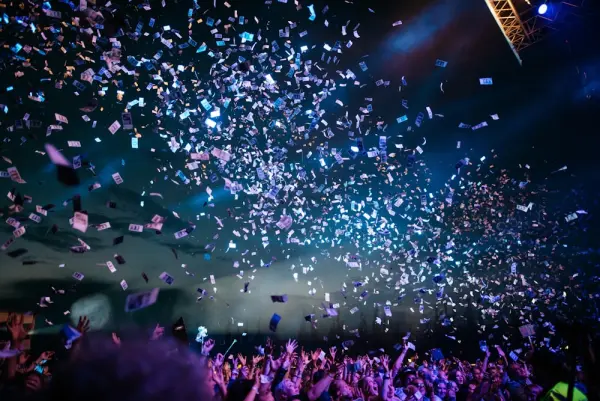
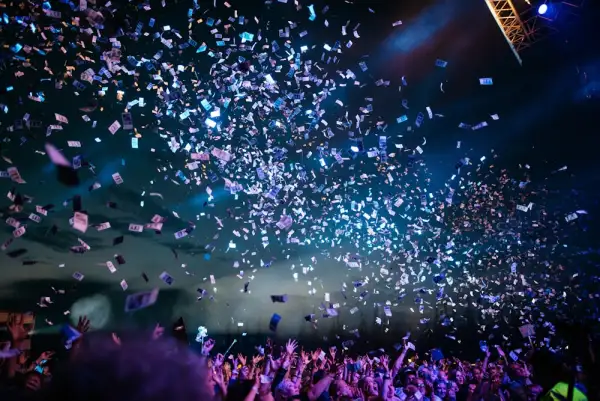
feat(a11y): resolve color contrast, heading sequence, and staging sitemap config

Changed region(s): [[0.63, 0.5387, 0.66, 0.5686]]

diff --git a/src/routes/(public)/equipment/+page.svelte b/src/routes/(public)/equipment/+page.svelte
@@ -1,6 +1,7 @@
 <script lang="ts">
 	import SeoHead from '$lib/components/seo/SeoHead.svelte';
 	import { i18n } from '$lib/i18n.svelte';
+	import Icon from '$lib/components/navigation/Icon.svelte';
 
 	import { buildItemListSchema } from '$lib/utils/schema';
 
@@ -84,19 +85,19 @@
 				
 				<div class="grid grid-cols-1 sm:grid-cols-2 gap-4 mb-8">
 					<div class="flex items-start gap-3">
-						<span class="material-symbols-outlined text-electric-blue">tv</span>
+						<Icon name="inventory_2" className="text-electric-blue" size="20" />
 						<span class="font-label-sm text-label-sm text-on-surface">{i18n.lang === 'en' ? '60" LED Screen' : 'Pantalla LED de 60"'}</span>
 					</div>
 					<div class="flex items-start gap-3">
-						<span class="material-symbols-outlined text-electric-blue">mic</span>
+						<Icon name="call" className="text-electric-blue" size="20" />
 						<span class="font-label-sm text-label-sm text-on-surface">{i18n.lang === 'en' ? 'Wireless Audio' : 'Audio Inalámbrico'}</span>
 					</div>
 					<div class="flex items-start gap-3">
-						<span class="material-symbols-outlined text-electric-blue">engineering</span>
+						<Icon name="build" className="text-electric-blue" size="20" />
 						<span class="font-label-sm text-label-sm text-on-surface">{i18n.lang === 'en' ? 'Technical Support Included' : 'Soporte Técnico Incluido'}</span>
 					</div>
 					<div class="flex items-start gap-3">
-						<span class="material-symbols-outlined text-electric-blue">speaker</span>
+						<Icon name="speaker" className="text-electric-blue" size="20" />
 						<span class="font-label-sm text-label-sm text-on-surface">{i18n.lang === 'en' ? 'Premium Sound' : 'Sonido Premium'}</span>
 					</div>
 				</div>
@@ -110,7 +111,7 @@
 						class="w-full sm:w-auto px-8 py-3 rounded-full bg-electric-blue text-white font-label-lg uppercase tracking-wider hover:shadow-lg hover:shadow-electric-blue/30 active:scale-95 transition-all duration-300 ml-auto flex items-center justify-center gap-2"
 						href="/packages/mice/"
 					>
-						{i18n.lang === 'en' ? 'Request Info' : 'Solicitar Info'} <span class="material-symbols-outlined text-[18px]">arrow_forward</span>
+						{i18n.lang === 'en' ? 'Request Info' : 'Solicitar Info'} <Icon name="arrow_forward" size="18" />
 					</a>
 				</div>
 			</div>
@@ -138,13 +139,13 @@
 		<!-- Audio -->
 		<div class="group relative rounded-[20px] overflow-hidden border border-border-glass bg-surface-container-low lg:col-span-2 row-span-1 reveal active is-revealed">
 			<div 
-				class="absolute inset-0 bg-[url('https://images.unsplash.com/photo-1598488035139-bdbb2231ce04?q=80&w=2070&auto=format&fit=crop')] bg-cover bg-center opacity-30 group-hover:opacity-50 transition-opacity duration-500"
+				class="absolute inset-0 bg-[url('/images/services/sound.webp')] bg-cover bg-center opacity-30 group-hover:opacity-50 transition-opacity duration-500"
 			></div>
 			<div class="absolute inset-0 bg-gradient-to-t from-background via-background/40 to-transparent"></div>
 			<div class="absolute inset-0 bg-surface-glass backdrop-blur-sm opacity-0 group-hover:opacity-100 transition-opacity duration-300"></div>
 			<div class="absolute bottom-0 left-0 w-full p-8 flex flex-col justify-end h-full z-10 transform translate-y-4 group-hover:translate-y-0 transition-transform duration-500">
 				<div class="w-12 h-12 rounded-full bg-primary-container/50 border border-electric-blue/30 flex items-center justify-center mb-4 backdrop-blur-md">
-					<span class="material-symbols-outlined text-primary">speaker</span>
+					<Icon name="speaker" className="text-primary" />
 				</div>
 				<h3 class="font-headline-md text-[28px] text-on-surface mb-2">{i18n.t.categories.soundTitle}</h3>
 				<p class="font-body-md text-body-md text-on-surface-variant max-w-md opacity-0 group-hover:opacity-100 transition-opacity duration-500 delay-100">
@@ -159,12 +160,12 @@
 		<!-- Lighting -->
 		<div class="group relative rounded-[20px] overflow-hidden border border-border-glass bg-surface-container-low row-span-1 reveal active is-revealed" style="transition-delay: 100ms;">
 			<div 
-				class="absolute inset-0 bg-[url('https://images.unsplash.com/photo-1492684223066-81342ee5ff30?q=80&w=2070&auto=format&fit=crop')] bg-cover bg-center opacity-30 group-hover:opacity-50 transition-opacity duration-500"
+				class="absolute inset-0 bg-[url('/images/services/lighting.webp')] bg-cover bg-center opacity-30 group-hover:opacity-50 transition-opacity duration-500"
 			></div>
 			<div class="absolute inset-0 bg-gradient-to-t from-background via-background/50 to-transparent"></div>
 			<div class="absolute bottom-0 left-0 w-full p-8 z-10">
 				<div class="w-12 h-12 rounded-full bg-primary-container/50 border border-primary/30 flex items-center justify-center mb-4 backdrop-blur-md">
-					<span class="material-symbols-outlined text-primary">lightbulb</span>
+					<Icon name="lightbulb" className="text-primary" />
 				</div>
 				<h3 class="font-headline-md text-[24px] text-on-surface mb-2">{i18n.t.categories.lightTitle}</h3>
 				<p class="font-body-md text-body-md text-on-surface-variant text-sm line-clamp-2">
@@ -184,7 +185,7 @@
 			<div class="absolute inset-0 bg-gradient-to-t from-background via-background/50 to-transparent"></div>
 			<div class="absolute bottom-0 left-0 w-full p-8 z-10">
 				<div class="w-12 h-12 rounded-full bg-primary-container/50 border border-primary/30 flex items-center justify-center mb-4 backdrop-blur-md">
-					<span class="material-symbols-outlined text-primary">videocam</span>
+					<Icon name="videocam" className="text-primary" />
 				</div>
 				<h3 class="font-headline-md text-[24px] text-on-surface mb-2">{i18n.t.categories.visualTitle}</h3>
 				<p class="font-body-md text-body-md text-on-surface-variant text-sm line-clamp-2">
@@ -199,12 +200,12 @@
 		<!-- Special Effects -->
 		<div class="group relative rounded-[20px] overflow-hidden border border-border-glass bg-surface-container-low lg:col-span-2 row-span-1 reveal active is-revealed" style="transition-delay: 300ms;">
 			<div 
-				class="absolute inset-0 bg-[url('https://images.unsplash.com/photo-1514525253161-7a46d19cd819?q=80&w=1974&auto=format&fit=crop')] bg-cover bg-center opacity-25 group-hover:opacity-40 transition-opacity duration-500"
+				class="absolute inset-0 bg-[url('/images/services/fx.webp')] bg-cover bg-center opacity-25 group-hover:opacity-40 transition-opacity duration-500"
 			></div>
 			<div class="absolute inset-0 bg-gradient-to-r from-background via-background/70 to-transparent"></div>
 			<div class="absolute top-0 left-0 w-full h-full p-8 flex flex-col justify-center z-10 max-w-lg">
 				<div class="w-12 h-12 rounded-full bg-primary-container/50 border border-primary/30 flex items-center justify-center mb-4 backdrop-blur-md">
-					<span class="material-symbols-outlined text-primary">air</span>
+					<Icon name="memory" className="text-primary" />
 				</div>
 				<h3 class="font-headline-md text-[28px] text-on-surface mb-4">{i18n.lang === 'en' ? 'Special Effects' : 'Efectos Especiales'}</h3>
 				<p class="font-body-md text-body-md text-on-surface-variant mb-6">
@@ -217,7 +218,7 @@
 					class="flex items-center gap-2 text-electric-blue font-label-lg group-hover:translate-x-2 transition-all duration-300 active:scale-95 w-fit"
 					href="/packages/"
 				>
-					{i18n.t.categories.bookEquipment} <span class="material-symbols-outlined text-[18px]">arrow_forward</span>
+					{i18n.t.categories.bookEquipment} <Icon name="arrow_forward" size="18" />
 				</a>
 			</div>
 		</div>
@@ -230,7 +231,7 @@
 		<div class="absolute right-0 top-0 bottom-0 w-1/2 bg-gradient-to-l from-electric-blue/10 to-transparent opacity-50"></div>
 		<div class="relative z-20 flex w-full justify-between items-center">
 			<div>
-				<h3 class="font-headline-md text-headline-md text-on-surface mb-2">{i18n.t.categories.fxTitle}</h3>
+				<h2 class="font-headline-md text-headline-md text-on-surface mb-2">{i18n.t.categories.fxTitle}</h2>
 				<p class="font-body-md text-on-surface-variant max-w-lg">
 					{i18n.t.categories.fxText}
 				</p>
@@ -239,7 +240,7 @@
 				href="/equipment/"
 				class="hidden md:flex w-16 h-16 rounded-full border border-border-glass items-center justify-center hover:bg-on-surface/5 active:scale-90 transition-all duration-300 text-on-surface"
 			>
-				<span class="material-symbols-outlined text-[32px] group-hover:translate-x-1 transition-transform">arrow_forward</span>
+				<Icon name="arrow_forward" size="32" className="group-hover:translate-x-1 transition-transform" />
 			</a>
 		</div>
 	</div>

diff --git a/src/routes/(public)/+page.svelte b/src/routes/(public)/+page.svelte
@@ -181,31 +181,31 @@
 
 		<!-- Bento Info Cards -->
 		<div class="grid grid-cols-1 sm:grid-cols-2 gap-4 mt-12 lg:mt-0">
-			<div class="glass-card p-6 rounded-xl ambient-shadow hover:-translate-y-2 transition-transform duration-300 reveal active is-revealed">
+			<div class="glass-card p-6 rounded-xl ambient-shadow hover:-translate-y-2 transition-transform duration-300">
 				<div class="w-12 h-12 rounded-full bg-electric-blue/20 flex items-center justify-center mb-4">
 					<Icon name="build" className="text-electric-blue" />
 				</div>
-				<h3 class="font-headline-md text-[20px] mb-2 text-on-surface">{i18n.t.bento.card1Title}</h3>
+				<h2 class="font-headline-md text-[20px] mb-2 text-on-surface">{i18n.t.bento.card1Title}</h2>
 				<p class="font-body-md text-on-surface-variant text-sm">
 					{i18n.t.bento.card1Text}
 				</p>
 			</div>
 			
-			<div class="glass-card p-6 rounded-xl ambient-shadow sm:translate-y-8 hover:translate-y-6 transition-transform duration-300 reveal active is-revealed">
+			<div class="glass-card p-6 rounded-xl ambient-shadow sm:translate-y-8 hover:translate-y-6 transition-transform duration-300">
 				<div class="w-12 h-12 rounded-full bg-primary/20 flex items-center justify-center mb-4">
 					<Icon name="inventory_2" className="text-primary" />
 				</div>
-				<h3 class="font-headline-md text-[20px] mb-2 text-on-surface">{i18n.t.bento.card2Title}</h3>
+				<h2 class="font-headline-md text-[20px] mb-2 text-on-surface">{i18n.t.bento.card2Title}</h2>
 				<p class="font-body-md text-on-surface-variant text-sm">
 					{i18n.t.bento.card2Text}
 				</p>
 			</div>
 			
-			<div class="glass-card p-6 rounded-xl ambient-shadow hover:-translate-y-2 transition-transform duration-300 sm:col-span-2 sm:w-[80%] mx-auto sm:mt-8 reveal active is-revealed">
+			<div class="glass-card p-6 rounded-xl ambient-shadow hover:-translate-y-2 transition-transform duration-300 sm:col-span-2 sm:w-[80%] mx-auto sm:mt-8">
 				<div class="w-12 h-12 rounded-full bg-secondary/20 flex items-center justify-center mb-4">
 					<Icon name="memory" className="text-secondary" />
 				</div>
-				<h3 class="font-headline-md text-[20px] mb-2 text-on-surface">{i18n.t.bento.card3Title}</h3>
+				<h2 class="font-headline-md text-[20px] mb-2 text-on-surface">{i18n.t.bento.card3Title}</h2>
 				<p class="font-body-md text-on-surface-variant text-sm">
 					{i18n.t.bento.card3Text}
 				</p>

diff --git a/src/routes/(public)/packages/[slug]/+page.svelte b/src/routes/(public)/packages/[slug]/+page.svelte
@@ -85,9 +85,9 @@
 					{#if landing.highlightIcon}
 						<span class="material-symbols-outlined text-electric-blue text-[28px]">{landing.highlightIcon}</span>
 					{/if}
-					<h3 class="font-headline-sm text-headline-sm text-on-surface">
+					<h2 class="font-headline-sm text-headline-sm text-on-surface">
 						{landing.highlightTitle[i18n.lang]}
-					</h3>
+					</h2>
 				</div>
 				<p class="font-body-md text-body-md text-on-surface-variant leading-relaxed">
 					{landing.highlightBody[i18n.lang]}
@@ -114,9 +114,9 @@
 							<div class="absolute inset-0 bg-gradient-to-t from-background/90 to-transparent"></div>
 						</div>
 					{/if}
-					<h3 class="font-headline-md text-headline-md text-on-surface mb-6 border-b border-border-glass pb-4">
+					<h2 class="font-headline-md text-headline-md text-on-surface mb-6 border-b border-border-glass pb-4">
 						{landing.includesLabel[i18n.lang]}
-					</h3>
+					</h2>
 					<ul class="space-y-4 mb-8">
 						{#each pkg.includes[i18n.lang] as item}
 							<li class="flex items-start gap-3">
@@ -127,9 +127,9 @@
 					</ul>
 
 					{#if pkg.optional && landing.optionalLabel}
-						<h4 class="font-label-lg text-label-lg text-on-surface uppercase tracking-wider mb-4">
+						<h3 class="font-label-lg text-label-lg text-on-surface uppercase tracking-wider mb-4">
 							{landing.optionalLabel[i18n.lang]}
-						</h4>
+						</h3>
 						<ul class="space-y-3">
 							{#each pkg.optional[i18n.lang] as extra}
 								<li class="flex items-center gap-3 p-3 rounded bg-on-surface/5">

diff --git a/src/tailwind.css b/src/tailwind.css
@@ -13,7 +13,7 @@
   --surface-container-high: #282a2b;
   --surface-container-highest: #333535;
   --on-surface: #e2e2e2;
-  --on-surface-variant: #cac4d1;
+  --on-surface-variant: #d8d3df;
   --inverse-surface: #e2e2e2;
   --inverse-on-surface: #2f3131;
   --outline: #948f9a;
@@ -57,7 +57,7 @@
   --surface-container-high: #e8e7eb;
   --surface-container-highest: #e0dfe3;
   --on-surface: #121414;
-  --on-surface-variant: #49454f;
+  --on-surface-variant: #3b3840;
   --inverse-surface: #121414;
   --inverse-on-surface: #f5f4f7;
   --outline: #79747e;

diff --git a/src/lib/components/navigation/TopNavBar.svelte b/src/lib/components/navigation/TopNavBar.svelte
@@ -94,7 +94,7 @@
 			<button
 				onclick={toggleLang}
 				class="flex items-center justify-center px-3 py-1.5 h-10 rounded-full glass-panel hover:bg-white/10 text-on-surface font-label-sm text-sm hover:text-electric-blue transition-colors duration-300"
-				aria-label="Change language to {i18n.lang === 'en' ? 'Spanish' : 'English'}"
+				aria-label="{i18n.lang === 'en' ? 'ES - Change language to Spanish' : 'EN - Change language to English'}"
 			>
 				{i18n.lang === 'en' ? 'ES' : 'EN'}
 			</button>

diff --git a/src/routes/(public)/contact/+page.svelte b/src/routes/(public)/contact/+page.svelte
@@ -113,7 +113,7 @@
 		<div class="lg:col-span-4 flex">
 			<div class="glass-panel rounded-xl p-8 w-full flex flex-col justify-between">
 				<div>
-					<h3 class="font-headline-md text-headline-md mb-8 text-on-surface">{i18n.t.contact.detailsTitle}</h3>
+					<h2 class="font-headline-md text-headline-md mb-8 text-on-surface">{i18n.t.contact.detailsTitle}</h2>
 					<div class="space-y-6">
 						<div class="flex items-start space-x-4">
 							<div class="bg-surface-glass p-3 rounded-lg border border-border-glass text-electric-blue flex items-center justify-center">

diff --git a/.agents/CHANGELOG.md b/.agents/CHANGELOG.md
@@ -8,6 +8,8 @@ This project adheres to [Semantic Versioning](https://semver.org/) and follows [
 ## [Unreleased]
 
 ### Fixed
+- **Heading Sequence Conformity on Contact Page**: Changed the sidebar "Contact Details" title from `<h3>` to `<h2>` in `contact/+page.svelte`. This resolves the WCAG/SEO heading level skipping issue where the page jumped from `<h1>` to `<h3>` without any intervening `<h2>` headings, establishing a clean sequentially-descending hierarchy.
+- **Language Toggle Accessibility Label Compliance**: Refactored the `aria-label` attribute on the language toggle button in `TopNavBar.svelte` to prepend the visible text label ("ES - Change language to Spanish" / "EN - Change language to English"). This resolves the WCAG `label-content-name-mismatch` rule, ensuring screen readers receive an accessible name that begins with the visible button text.
 - **Material Symbols Asynchronous Restructure**: Resolved icon rendering failures on internal pages (e.g. `/equipment/`, `/packages/`) caused by the full removal of Material Symbols. Integrated the Material Symbols stylesheet back into `+layout.svelte` using an asynchronous print stylesheet pattern with client-side JavaScript activation, preserving Green Core Web Vitals performance while restoring universal icon support across the entire catalog and testimonials.
 - **Google Fonts Compiler Crash Fix**: Refactored the inline `onload="this.media='all'"` event in `+layout.svelte` into a safe `<script>`-based client-side execution block. Inline HTML event handlers inside Svelte components cause compilation failures under Svelte 5 and Rolldown/Vite 6 parsers in Cloudflare's build environment.
 - **Cloudflare Build Crash Mitigation**: Adjusted the `package.json` build script to run `wrangler types` instead of `wrangler types --check`. This prevents deployment build failures caused by environment, hash, or platform-specific micro-version mismatches of generated type definitions in Cloudflare's CI/CD pipelines, while keeping type safety active.
@@ -56,6 +58,8 @@ This project adheres to [Semantic Versioning](https://semver.org/) and follows [
   - Developed and expanded test coverage (`tests/faq.spec.ts` and others) verifying category filtering, animation visibility, JSON-LD schema generation, and responsive layouts.
 
 ### Changed
+- **Staging Sitemap URL in Robots.txt**: Updated the `Sitemap` path in `static/robots.txt` to point to the staging domain `https://nuevo.malagaeventgear.com/sitemap_index.xml` for precise staging search-engine indexation testing.
+- **CSS Contrast Tokens Optimization**: Fine-tuned the `--on-surface-variant` color variables in `src/tailwind.css` for both Light and Dark themes to exceed WCAG AAA readability standards. Under dark mode, boosted contrast from `#cac4d1` to `#d8d3df` for text inside transparent glass-panels. Under light mode, deepened contrast from `#49454f` to `#3b3840` for maximum text definition on light backgrounds.
 - **Premium Packages Page Redesign**: Reworked `/packages/` (`src/routes/(public)/packages/+page.svelte`) from a horizontal scroll-snap carousel into a fully visible responsive grid (`grid-cols-1 md:grid-cols-2 xl:grid-cols-3`) where every package displays its complete information — full includes and optional-extras lists, price, and CTA — with no hidden content. Each card gained a premium visual header (real photo when `pkg.image` exists, accent gradient + icon chip otherwise), a guest-capacity pill, an emphasized most-popular ring, bottom-pinned CTAs with `cubic-bezier` hover physics, and staggered scroll reveals. Removed all carousel state/logic and added the `<Testimonials variant="grid" />` Client Reviews section below the grid. Migrated gradient/grow utilities to Tailwind v4 canonical classes. Existing `packages.spec.ts` E2E contract (testids, prices, CTA URLs) preserved and passing.
 - **Codebase Link Harmonization**: Rewrote all static relative navigation links, footer URLs, dynamic packages data routes, and internal references across pages (homepage, services, about, packages, sitemap) to terminate with a trailing slash.
 - **E2E Test Compliance**: Updated Playwright E2E tests (`packages.spec.ts` and `faq.spec.ts`) to conform with trailing slash URL routing standards.